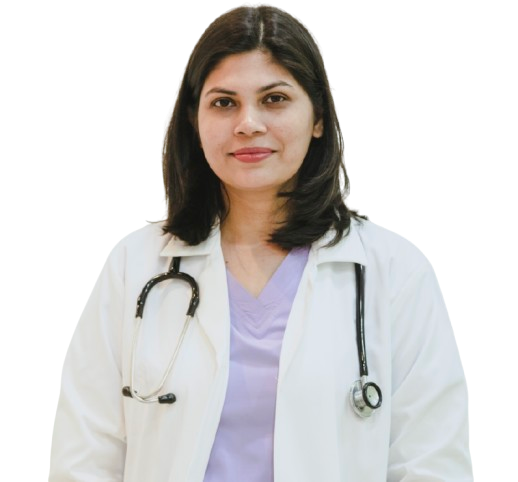
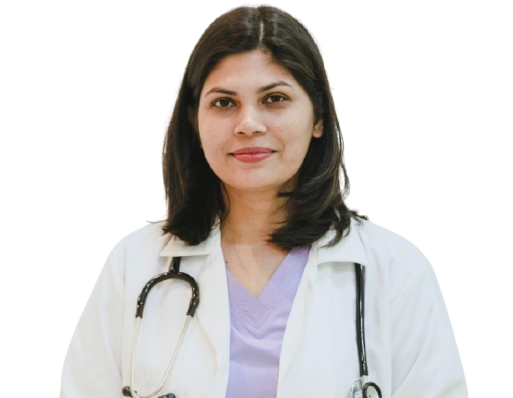
updated web

Changed region(s): [[0.0936, 0.0, 0.9045, 1.0], [0.8421, 0.9347, 0.9045, 0.9648], [0.8421, 0.995, 0.8733, 1.0]]

diff --git a/index.html b/index.html
@@ -656,8 +656,6 @@
         </div>
     </div>
 
-
-
     <!-- ivf section -->
     <section id="ivf-services" class="my-5">
         <div class="container-fluid">
@@ -1030,7 +1028,7 @@
 
             <!-- Second Image -->
             <div id="doctor2-col" class="col-md-6 d-flex align-items-center">
-                <img id="doctor2-img" src="renu.webp" alt="Doctor 2" class="img-fluid rounded"
+                <img id="doctor2-img" src="renubg.png" alt="Doctor 2" class="img-fluid rounded"
                     style="margin-bottom: 20px;">
             </div>
         </div>
@@ -1381,8 +1379,9 @@
     </script>
     <script>
         $(document).ready(function () {
-            $('#quoteCarousel').carousel({
-                interval: 2000
+            $('#mainSlider').on('slid.bs.carousel', function (e) {
+                let index = $(e.relatedTarget).index();
+                $('#quoteCarousel').carousel(index);
             });
         });
 
